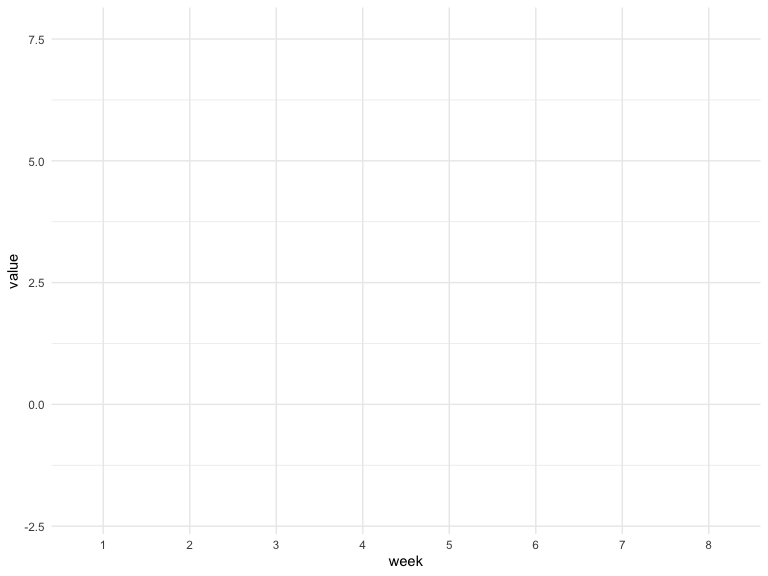
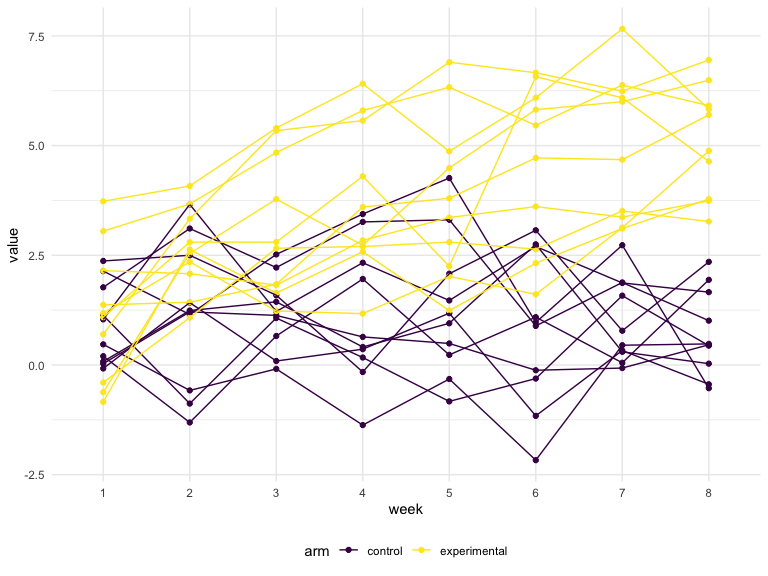
Problem 2 - Tidying data, adding spaghetti plot and commentary

diff --git a/p8105_hw5_khs2138.md b/p8105_hw5_khs2138.md
@@ -267,7 +267,7 @@ tidying that’s necessary**
 study_df = study_df |>
   mutate(arm = case_match(substr(file_name, 1, 3), "con" ~ "control", "exp" ~ "experimental")) |>
   mutate(subject_id = substr(file_name, 5, 6)) |>
-  select(-file_name)
+  mutate(file_name = substr(file_name, 1, 6))
 ```
 
 ## Plot
@@ -281,7 +281,14 @@ study_df |>
                names_to = "week",
                values_to = "value") |>
   mutate(week = substr(week, 6, 6)) |>
-  ggplot(aes(x = week, y = value))
+  ggplot(aes(x = week, y = value, group = file_name, color = arm)) + 
+  geom_point() + 
+  geom_line()
 ```
 
 <img src="p8105_hw5_khs2138_files/figure-gfm/spaghetti_plot-1.png" width="90%" />
+
+The control arm and experimental arm seem to start around the same
+values at week 1, but the experimental increase over time and the
+control stay the same. The experimental arm values seem to be noticeably
+greater than than control values around weeks 3-4.
